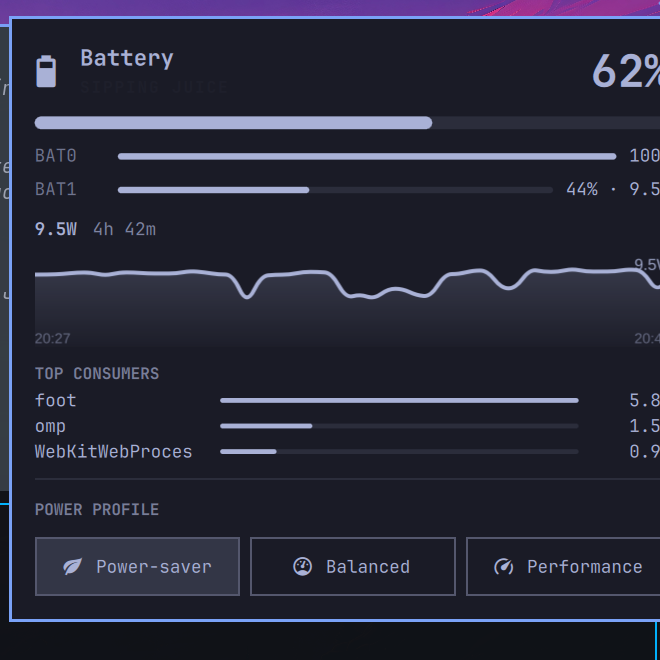
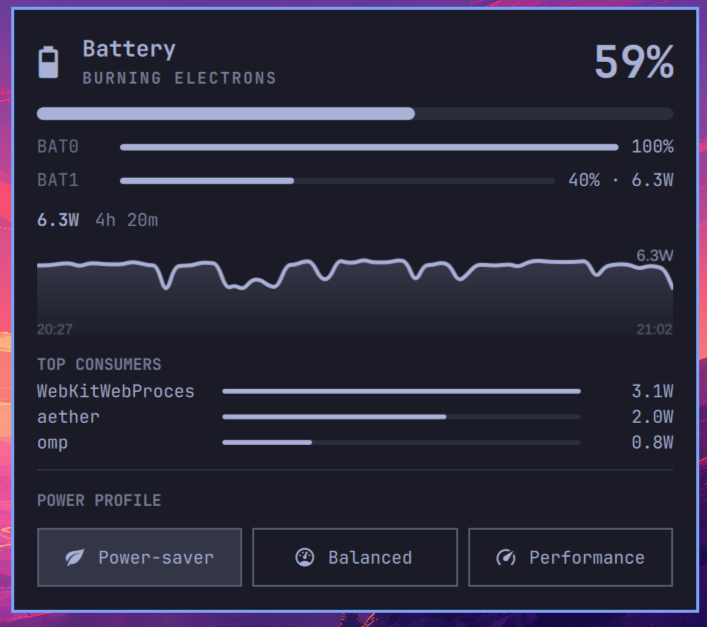
Use user's fresh screenshot; add license badge

diff --git a/README.md b/README.md
@@ -1,5 +1,7 @@
 # Cellmate
 
+[![License: MIT](https://img.shields.io/badge/License-MIT-yellow.svg)](LICENSE)
+
 Multi-battery widget for the [Omarchy](https://omarchy.org/) shell.
 One widget for every battery in your laptop: totals, per-cell draw, a live
 wattage history chart, and the top power consumers — no root required.
